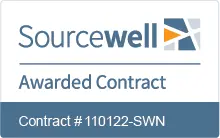
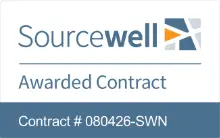
Update Sourcewell

diff --git a/wp-content/themes/sherwin/header.php b/wp-content/themes/sherwin/header.php
@@ -116,11 +116,11 @@
 	<?php if (is_front_page()) { ?>
     <div id="sourcewell">
       <div class="flex">
-        <a href="https://www.sourcewell-mn.gov/cooperative-purchasing/110122-SWN" class="sourcewell"><img src="<?php echo get_template_directory_uri(); ?>/images/sourcewell.webp" width="220" height="138" alt="Sourcewell Awarded Contract # 110122-SWN"></a>
+        <a href="https://www.sourcewell-mn.gov/cooperative-purchasing/080426-SWN" class="sourcewell"><img src="<?php echo get_template_directory_uri(); ?>/images/sourcewell.webp?080426-SWN" width="220" height="138" alt="Sourcewell Awarded Contract # 080426-SWN"></a>
 
         <div>
           <p>Looking for more product/service details about this contract?</p>
-          <p>Visit <a href="https://www.sourcewell-mn.gov/cooperative-purchasing/110122-SWN">Buy Sourcewell</a></p>
+          <p>Visit <a href="https://www.sourcewell-mn.gov/cooperative-purchasing/080426-SWN">Buy Sourcewell</a></p>
         </div>
       </div>
     </div>
@@ -206,11 +206,11 @@
     <?php if ($post->post_name == "product-catalog") { ?>
     <div id="sourcewell">
       <div class="flex">
-        <a href="https://www.sourcewell-mn.gov/cooperative-purchasing/110122-SWN" class="sourcewell"><img src="<?php echo get_template_directory_uri(); ?>/images/sourcewell.webp" width="220" height="138" alt="Sourcewell Awarded Contract # 110122-SWN"></a>
+        <a href="https://www.sourcewell-mn.gov/cooperative-purchasing/080426-SWN" class="sourcewell"><img src="<?php echo get_template_directory_uri(); ?>/images/sourcewell.webp?080426-SWN" width="220" height="138" alt="Sourcewell Awarded Contract # 080426-SWN"></a>
 
         <div>
           <p>Looking for more product/service details about this contract?</p>
-          <p>Visit <a href="https://www.sourcewell-mn.gov/cooperative-purchasing/110122-SWN">Buy Sourcewell</a></p>
+          <p>Visit <a href="https://www.sourcewell-mn.gov/cooperative-purchasing/080426-SWN">Buy Sourcewell</a></p>
         </div>
       </div>
     </div>

diff --git a/wp-content/themes/sherwin/footer.php b/wp-content/themes/sherwin/footer.php
@@ -61,7 +61,7 @@
   <!--End mc_embed_signup-->
 
   <footer id="main-footer">
-    <a href="https://www.sourcewell-mn.gov/cooperative-purchasing/110122-SWN" class="sourcewell"><img src="<?php echo get_template_directory_uri(); ?>/images/sourcewell.webp" width="220" height="138" alt="Sourcewell Awarded Contract # 110122-SWN"></a><br>
+    <a href="https://www.sourcewell-mn.gov/cooperative-purchasing/080426-SWN" class="sourcewell"><img src="<?php echo get_template_directory_uri(); ?>/images/sourcewell.webp?080426-SWN" width="220" height="138" alt="Sourcewell Awarded Contract # 080426-SWN"></a><br>
     <br>
 
     All rights reserved. Sherwin Industries, Inc. &copy; <?php echo date("Y"); ?><br>

diff --git a/wp-content/themes/sherwin/template-coming-home.php b/wp-content/themes/sherwin/template-coming-home.php
@@ -158,7 +158,7 @@ get_header();
       endif;
       ?>
 
-      <a href="https://www.sourcewell-mn.gov/cooperative-purchasing/110122-SWN" target="sw" class="sw"><img src="<?php echo get_template_directory_uri(); ?>/images/sourcewell.webp"></a>
+      <a href="https://www.sourcewell-mn.gov/cooperative-purchasing/080426-SWN" target="sw" class="sw"><img src="<?php echo get_template_directory_uri(); ?>/images/sourcewell.webp?080426-SWN"></a>
     </div>
   </div>
 </section>
